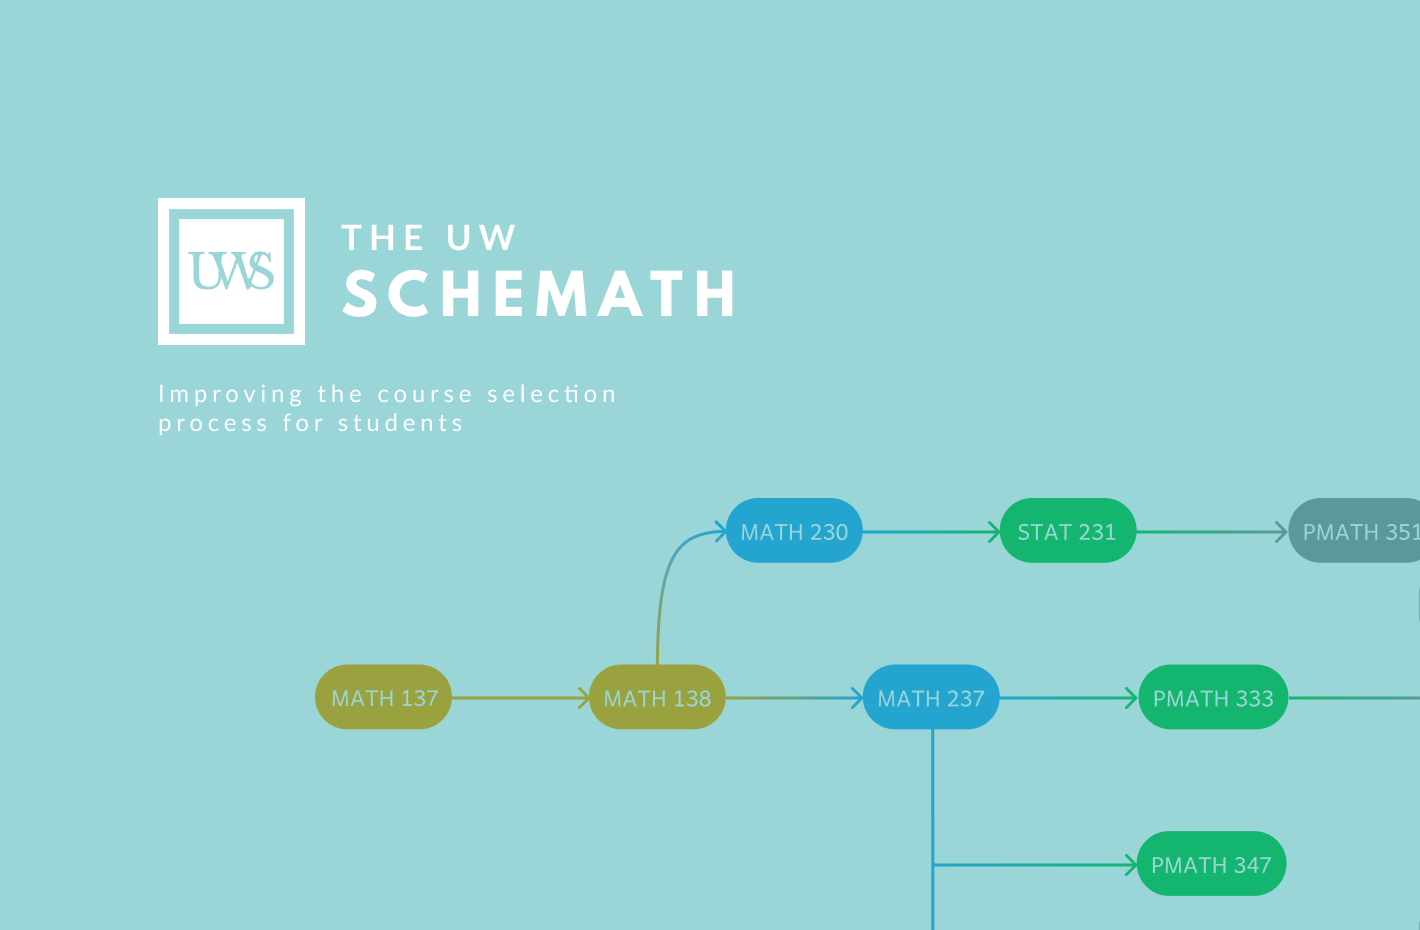
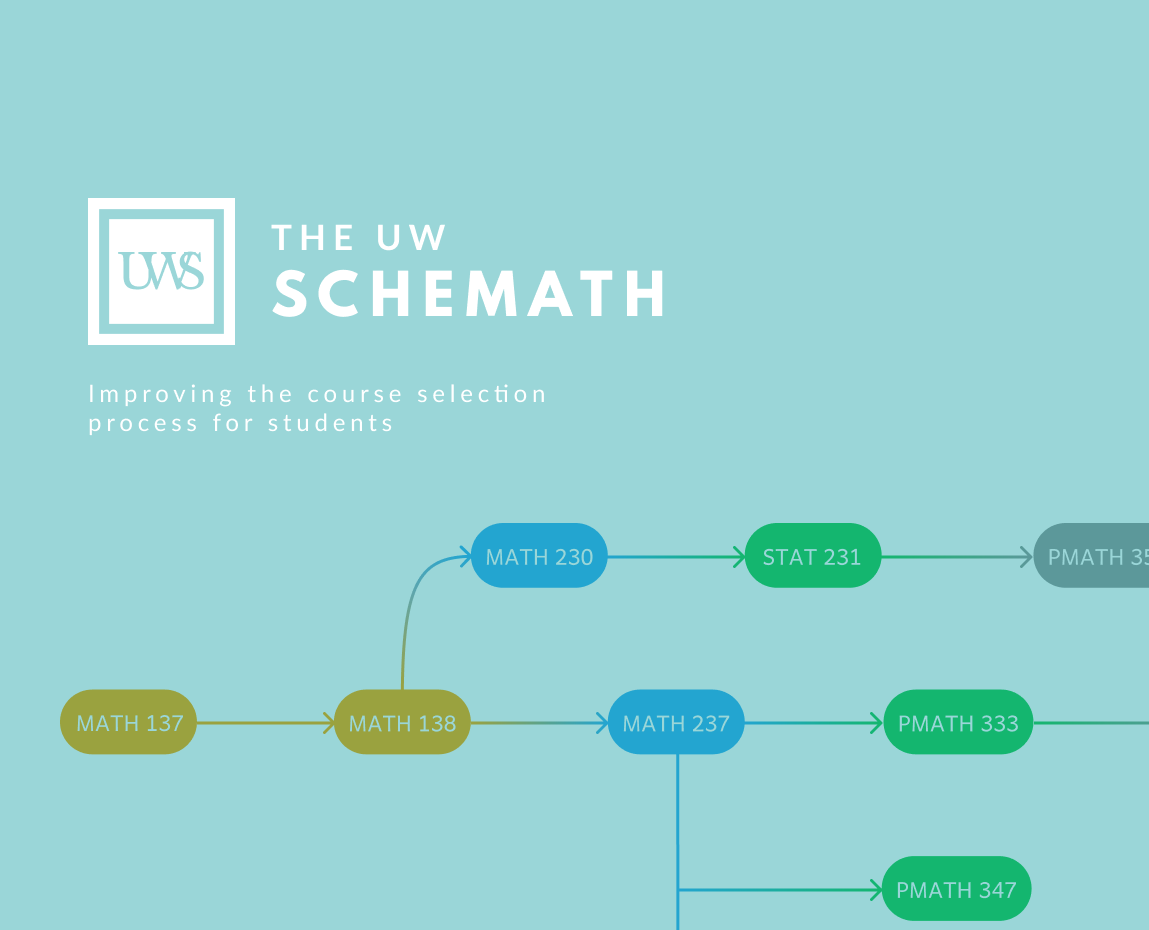
resized project background

diff --git a/style.css b/style.css
@@ -177,7 +177,7 @@ nav a:hover:before {
   padding: 15px 15px;
   padding-right: 0px;
   /* background-color: aliceblue; */
-  height: 67vh;
+  height: 65vh;
   min-height: 620px;
   text-align: right;
   justify-content: flex-end;
@@ -311,8 +311,6 @@ nav a:hover:before {
 #content1 {
   background-image: url("images/joya-cover.png");
   background-size: cover;
-  background-position-x: left;
-  background-position-y: top;
   filter: grayscale();
   transition: filter 0.5s;
 }
@@ -320,8 +318,6 @@ nav a:hover:before {
 #content2 {
   background-image: url("images/uws.png");
   background-size: cover;
-  background-position-x: left;
-  background-position-y: top;
   filter: grayscale();
   transition: filter 0.5s;
 }
@@ -329,8 +325,6 @@ nav a:hover:before {
 #content3 {
   background-image: url("images/webdev.png");
   background-size: cover;
-  background-position-x: left;
-  background-position-y: top;
   filter: grayscale();
   transition: filter 0.5s;
 }
